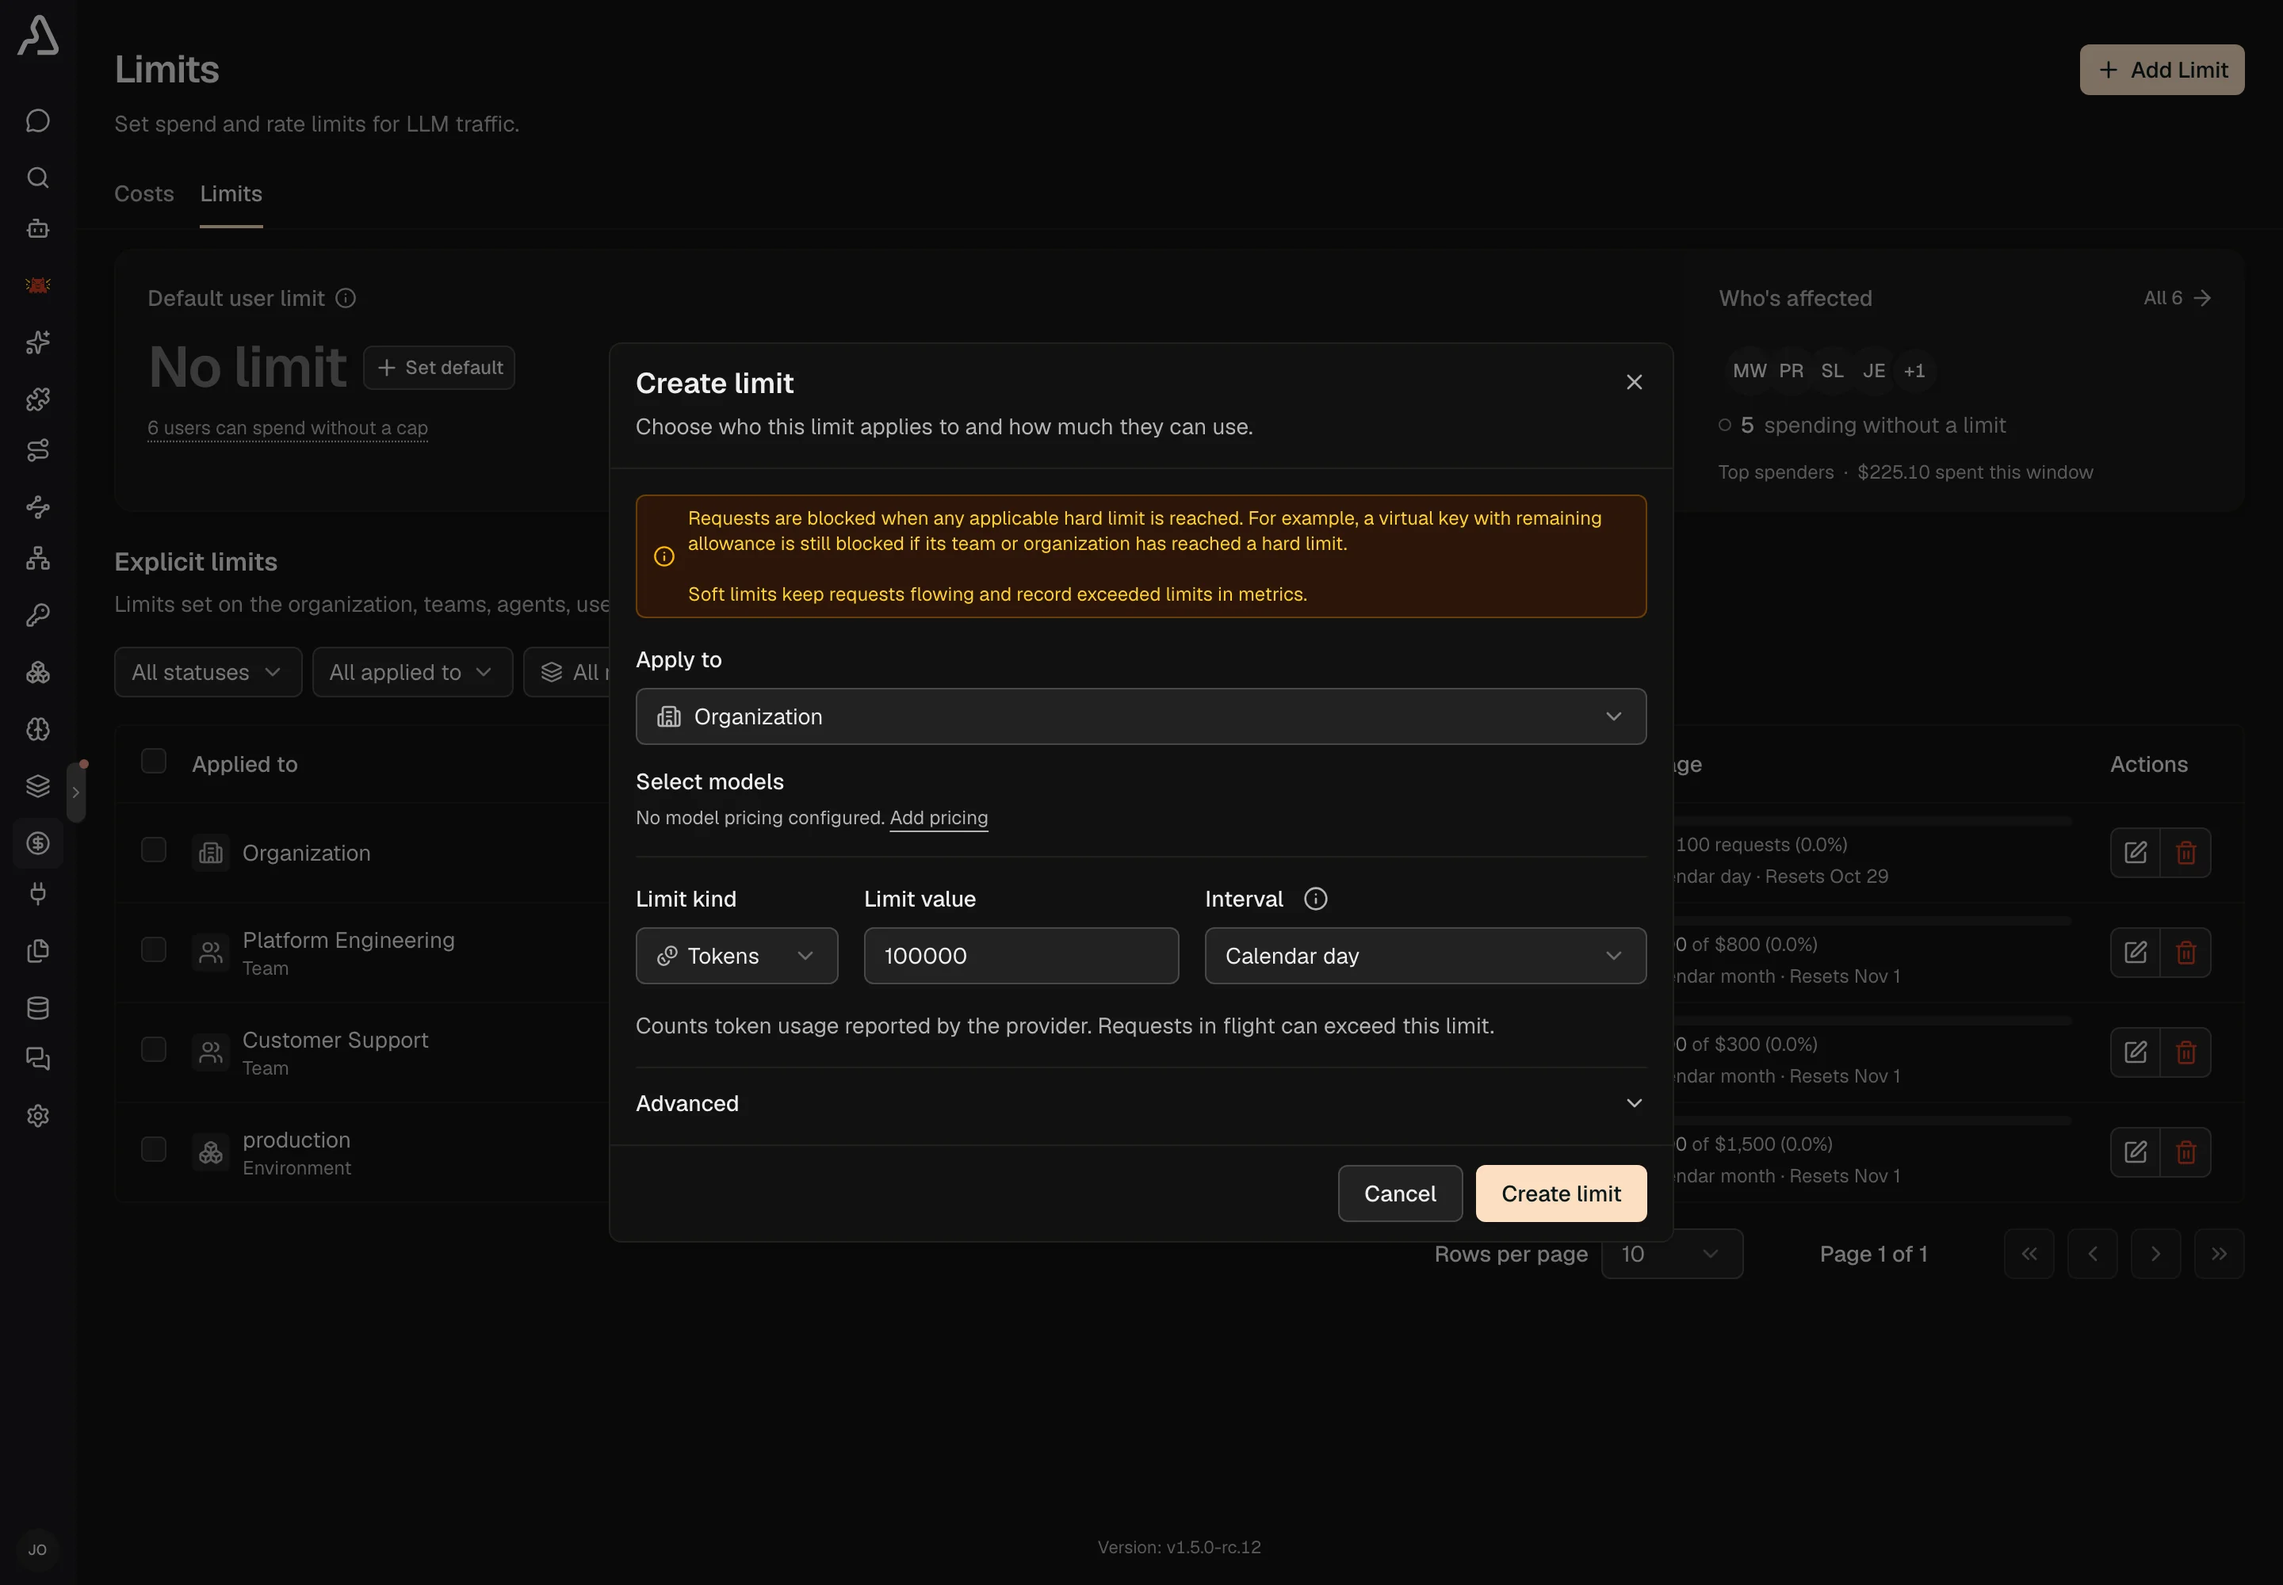
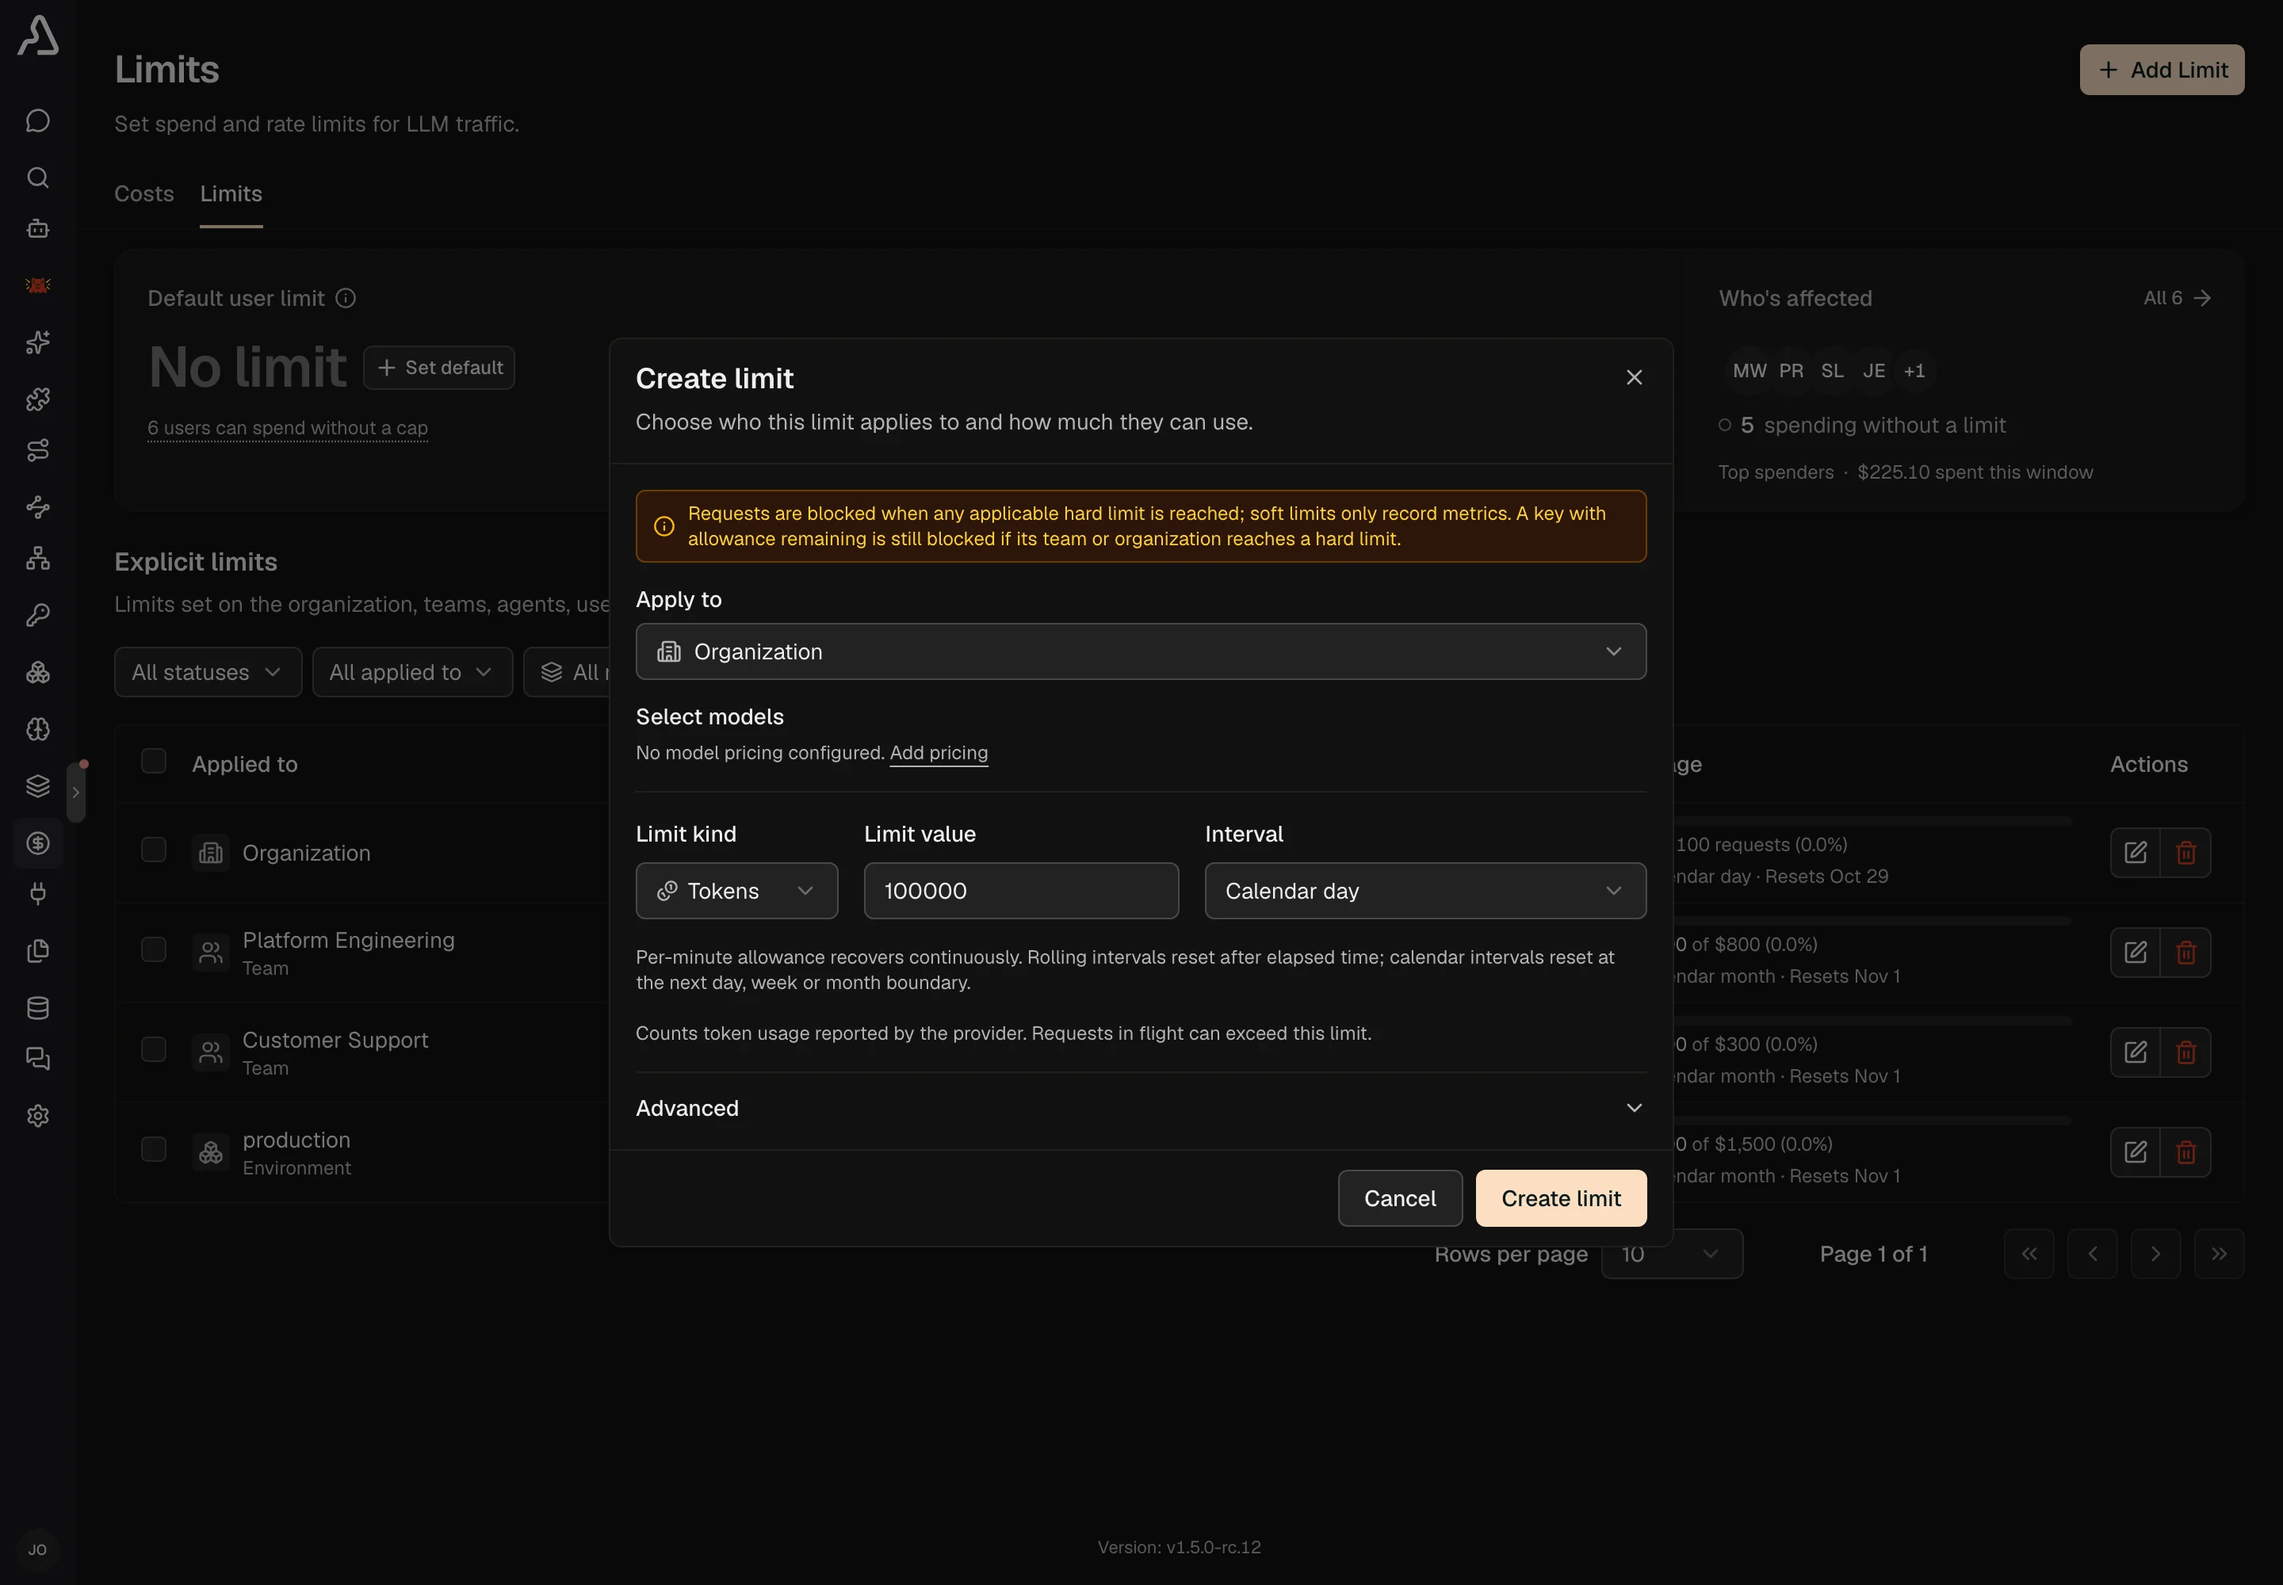
fix(limits): unify helper text and shorten enforcement notice

diff --git a/platform/frontend/src/app/llm/(costs)/limits/page.tsx b/platform/frontend/src/app/llm/(costs)/limits/page.tsx
@@ -1096,13 +1096,10 @@ export default function LimitsPage() {
             <InlineNotice variant="warning">
               <Info aria-hidden="true" />
               <InlineNoticeText>
-                Requests are blocked when any applicable hard limit is reached.
-                For example, a virtual key with remaining allowance is still
-                blocked if its team or organization has reached a hard limit.
-                <br />
-                <br />
-                Soft limits keep requests flowing and record exceeded limits in
-                metrics.
+                Requests are blocked when any applicable hard limit is reached;
+                soft limits only record metrics. A key with allowance remaining
+                is still blocked if its team or organization reaches a hard
+                limit.
               </InlineNoticeText>
             </InlineNotice>
 
@@ -1118,14 +1115,12 @@ export default function LimitsPage() {
 
             <div className="space-y-4">
               <div className="space-y-2">
-                <div className="flex h-5 items-center gap-1.5">
-                  <Label>Apply to</Label>
-                  {editingLimit && (
-                    <LimitFieldHelp label="Apply to help">
-                      Create a new limit to change who it applies to.
-                    </LimitFieldHelp>
-                  )}
-                </div>
+                <Label>Apply to</Label>
+                {editingLimit && (
+                  <FieldDescription>
+                    Create a new limit to change who it applies to.
+                  </FieldDescription>
+                )}
                 <div className="flex flex-col gap-2 sm:flex-row">
                   <SearchableSelect
                     value={formState.entityType}
@@ -1322,15 +1317,9 @@ export default function LimitsPage() {
             <div className="space-y-4 border-t pt-4">
               <div className="grid items-start gap-4 sm:grid-cols-[8rem_minmax(0,1fr)_minmax(0,1.4fr)]">
                 <div className="flex flex-col gap-2">
-                  <div className="flex h-5 items-center gap-1.5">
-                    <Label htmlFor="limit-kind">Limit kind</Label>
-                    {editingLimit && (
-                      <LimitFieldHelp label="Limit kind help">
-                        Create a new limit to change between spend, tokens and
-                        requests.
-                      </LimitFieldHelp>
-                    )}
-                  </div>
+                  <Label className="h-5" htmlFor="limit-kind">
+                    Limit kind
+                  </Label>
                   <Select
                     value={formState.limitType}
                     disabled={Boolean(editingLimit)}
@@ -1411,9 +1400,11 @@ export default function LimitsPage() {
                   ) : null}
                 </div>
 
-                <div className="grid grid-cols-[auto_1fr] grid-rows-[1.25rem_auto] content-start items-center gap-x-1.5 gap-y-2">
-                  <Label htmlFor="limit-interval">Interval</Label>
-                  <div className="col-span-2 row-start-2">
+                <div className="flex flex-col gap-2">
+                  <Label className="h-5" htmlFor="limit-interval">
+                    Interval
+                  </Label>
+                  <div>
                     <LimitCleanupIntervalSelect
                       id="limit-interval"
                       ariaLabel="Interval"
@@ -1440,16 +1431,19 @@ export default function LimitsPage() {
                       }
                     />
                   </div>
-                  <LimitFieldHelp
-                    label="Interval help"
-                    className="col-start-2 row-start-1 justify-self-start"
-                  >
-                    Per-minute allowance recovers continuously. Rolling
-                    intervals reset after elapsed time; calendar intervals reset
-                    at the next day, week or month boundary.
-                  </LimitFieldHelp>
                 </div>
               </div>
+              {editingLimit && (
+                <FieldDescription>
+                  Create a new limit to change between spend, tokens and
+                  requests.
+                </FieldDescription>
+              )}
+              <FieldDescription>
+                Per-minute allowance recovers continuously. Rolling intervals
+                reset after elapsed time; calendar intervals reset at the next
+                day, week or month boundary.
+              </FieldDescription>
               {!(
                 formState.limitType === "token_cost" &&
                 formState.cleanupInterval !== "minute"
@@ -1466,23 +1460,20 @@ export default function LimitsPage() {
                   </InlineNotice>
                 )}
               {formState.limitType === "tokens" && (
-                <p className="text-sm text-muted-foreground">
+                <FieldDescription>
                   Counts token usage reported by the provider. Requests in
                   flight can exceed this limit.
-                </p>
+                </FieldDescription>
               )}
             </div>
 
             <AdvancedSection keepMounted>
               <div className="space-y-2">
                 <Label htmlFor="limit-behavior">Behavior</Label>
-                <p
-                  id="limit-behavior-description"
-                  className="text-sm text-muted-foreground"
-                >
+                <FieldDescription id="limit-behavior-description">
                   Choose whether reaching this limit blocks requests or only
                   records metrics.
-                </p>
+                </FieldDescription>
                 <Select
                   value={formState.behavior}
                   onValueChange={(value) =>
@@ -2005,36 +1996,4 @@ function getLimitInterval(limit: LimitData): LimitCleanupInterval {
     return "minute";
   }
   return limit.cleanupInterval ?? DEFAULT_LIMIT_CLEANUP_INTERVAL;
-}
-
-function LimitFieldHelp({
-  label,
-  children,
-  className,
-}: {
-  label: string;
-  children: React.ReactNode;
-  className?: string;
-}) {
-  return (
-    <Tooltip>
-      <TooltipTrigger asChild>
-        <Button
-          type="button"
-          variant="ghost"
-          size="icon-xs"
-          className={cn(
-            "text-muted-foreground hover:text-foreground",
-            className,
-          )}
-          aria-label={label}
-        >
-          <Info aria-hidden="true" className="h-3.5 w-3.5" />
-        </Button>
-      </TooltipTrigger>
-      <TooltipContent align="start" className="max-w-60 text-wrap">
-        {children}
-      </TooltipContent>
-    </Tooltip>
-  );
 }
